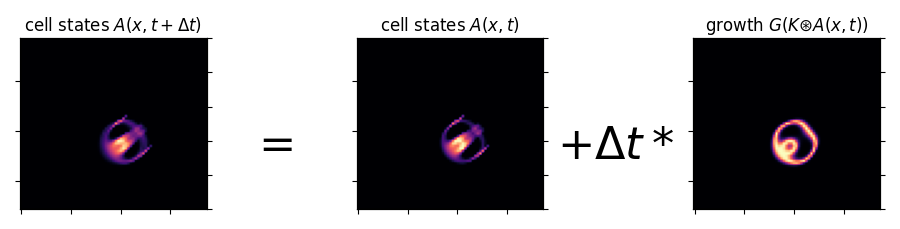
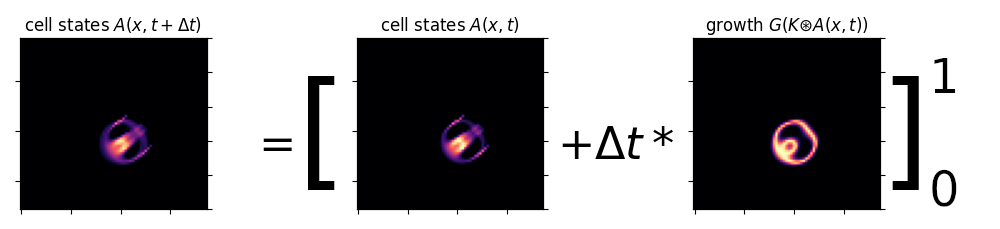
remove redundant code from slide 003 and add/update lenia illustrations

Changed region(s): [[0.0, 0.0611, 0.9956, 0.9476], [0.0, 0.1834, 0.0311, 0.917]]

diff --git a/docs/al24_slide_003.md b/docs/al24_slide_003.md
@@ -30,20 +30,6 @@
 
 ### If we want more accurate simulation, all we have to do is add more compute!
 
-{:style="text-align:center;"}
-![Lenia update equation](https://raw.githubusercontent.com/riveSunder/fractal_persistence/master/docs/assets/lenia_update.png)
-
-```
-# given
-# a: cell states
-# k: neighborhood kernel
-# dt: step size
-# grow: growth function
-# conv: convolution function
-# clip: clipping function (truncates values)
-
-a = clip(a + dt * grow(conv(a,k)), 0., 1.)
-```
 
 {:style="text-align:center;"}
 [Previous slide](https://rivesunder.github.io/fractal_persistence/al24_slide_002) -- [Supporting resources](https://rivesunder.github.io/fractal_persistence) -- [Next slide](https://rivesunder.github.io/fractal_persistence/al24_slide_004)

diff --git a/docs/al24_slide_001.md b/docs/al24_slide_001.md
@@ -1,6 +1,10 @@
 # Continuous Cellular Automata 
 ## Lenia ([Chan 2019](https://www.complex-systems.com/abstracts/v28_i03_a01/))
 
+<div align="center">
+  <img src="https://raw.githubusercontent.com/riveSunder/fractal_persistence/master/docs/assets/kernel_growth.png" width=512 alt="neighborhood kernel and growth function used in Lenia">
+</div>
+
 {:style="text-align:center;"}
 ![Lenia update equation](https://raw.githubusercontent.com/riveSunder/fractal_persistence/master/docs/assets/lenia_update.png)
 
